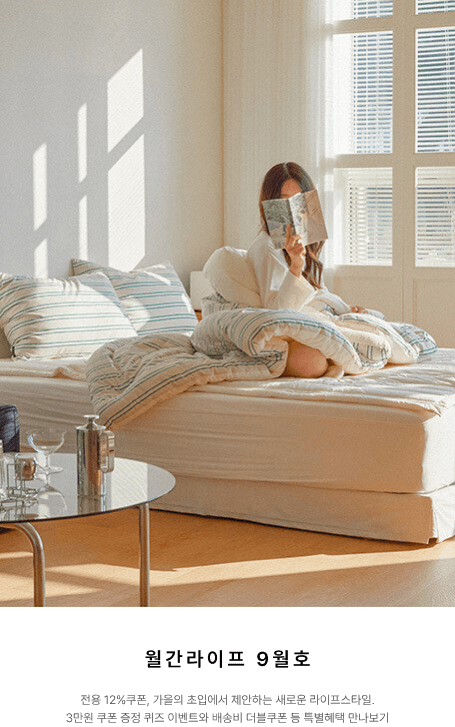
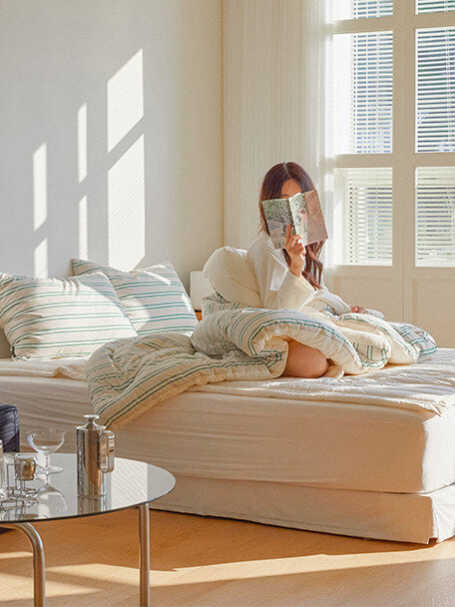
🎨 [Styling] 메인페이지 STORY 이미지 변경
글씨가 포함되었던 이미지를 글씨를 뺸 이미지로 교체했습니다.

diff --git a/src/views/Mainpage.jsx b/src/views/Mainpage.jsx
@@ -1,25 +1,24 @@
-import main1 from "../../public/main/main_banner_1.png";
-import main2 from "../../public/main/main_banner_2.png";
-import main3 from "../../public/main/main_banner_3.png";
-import main4 from "../../public/main/main_banner_4.png";
-import main5 from "../../public/main/main_banner_5.png";
-import main6 from "../../public/main/main_banner_6.png";
-import story1 from "../../public/main/main_story_1.png";
-import story2 from "../../public/main/main_story_2.png";
-import story3 from "../../public/main/main_story_3.png";
-import story4 from "../../public/main/main_story_4.png";
-import event1 from "../../public/main/main_event_banner_1.png";
-import event2 from "../../public/main/main_event_banner_2.png";
-import event3 from "../../public/main/main_event_banner_3.png";
-import event4 from "../../public/main/main_event_banner_4.png";
-import dummy from "../../public/main/dummy.png";
+import main1 from '../../public/main/main_banner_1.png';
+import main2 from '../../public/main/main_banner_2.png';
+import main3 from '../../public/main/main_banner_3.png';
+import main4 from '../../public/main/main_banner_4.png';
+import main5 from '../../public/main/main_banner_5.png';
+import main6 from '../../public/main/main_banner_6.png';
+import story1 from '../../public/main/main_story_1.png';
+import story2 from '../../public/main/main_story_2.png';
+import story3 from '../../public/main/main_story_3.png';
+import story4 from '../../public/main/main_story_4.png';
+import event1 from '../../public/main/main_event_banner_1.png';
+import event2 from '../../public/main/main_event_banner_2.png';
+import event3 from '../../public/main/main_event_banner_3.png';
+import event4 from '../../public/main/main_event_banner_4.png';
+import dummy from '../../public/main/dummy.png';
 
 function Mainpage(params) {
 	return (
-		<div className="w-[1920px] mx-auto">
+		<div className="mx-auto w-[1920px]">
 			<section className="mb-[5rem]">
 				<article className="min-w-min">
-
 					<a href="#">
 						<img src={main1} alt="메인배너1" />
 					</a>
@@ -27,64 +26,228 @@ function Mainpage(params) {
 					{/* <a href="#">
 						<img src={main2} alt="메인배너1" />
 					</a> */}
-
 				</article>
 			</section>
 
 			<section>
-				<h2 className="text-[54px] font-thin text-center mb-8">STYLE STORY</h2>
-				<ul className="flex gap-5 justify-between">
+				<h2 className="mb-8 text-center text-[54px] font-thin">STYLE STORY</h2>
+				<ul className="flex justify-between gap-5">
 					<li>
 						<a href="">
-							<img src={story1} alt="" />
+							<figure>
+								<img src={story1} alt="" />
+								<dl>
+									<dt aria-label="제목"></dt>
+									<dd>월간 라이프 9월호</dd>
+									<dt aria-label="설명"></dt>
+									<dd className="text-center">전용 12%쿠폰, 가을의 초입에서 제안하는 새로운 라이프스타일. 3만원 쿠폰 증정 퀴즈 이벤트와 배송비 더블쿠폰 등 특별혜택 만나보기</dd>
+								</dl>
+							</figure>
 						</a>
 					</li>
-
 					<li>
 						<a href="">
-							<img src={story2} alt="" />
+							<figure>
+								<img src={story2} alt="" />
+								<dl>
+									<dt aria-label="제목"></dt>
+									<dd>월간 라이프 9월호</dd>
+									<dt aria-label="설명"></dt>
+									<dd className="text-center">전용 12%쿠폰, 가을의 초입에서 제안하는 새로운 라이프스타일. 3만원 쿠폰 증정 퀴즈 이벤트와 배송비 더블쿠폰 등 특별혜택 만나보기</dd>
+								</dl>
+							</figure>
 						</a>
 					</li>
-
 					<li>
 						<a href="">
-							<img src={story3} alt="" />
+							<figure>
+								<img src={story3} alt="" />
+								<dl>
+									<dt aria-label="제목"></dt>
+									<dd>월간 라이프 9월호</dd>
+									<dt aria-label="설명"></dt>
+									<dd className="text-center">전용 12%쿠폰, 가을의 초입에서 제안하는 새로운 라이프스타일. 3만원 쿠폰 증정 퀴즈 이벤트와 배송비 더블쿠폰 등 특별혜택 만나보기</dd>
+								</dl>
+							</figure>
 						</a>
 					</li>
-
 					<li>
 						<a href="">
-							<img src={story4} alt="" />
+							<figure>
+								<img src={story4} alt="" />
+								<dl>
+									<dt aria-label="제목"></dt>
+									<dd>월간 라이프 9월호</dd>
+									<dt aria-label="설명"></dt>
+									<dd className="text-center">전용 12%쿠폰, 가을의 초입에서 제안하는 새로운 라이프스타일. 3만원 쿠폰 증정 퀴즈 이벤트와 배송비 더블쿠폰 등 특별혜택 만나보기</dd>
+								</dl>
+							</figure>
 						</a>
 					</li>
-
 				</ul>
 			</section>
 
-			<section className="flex my-12">
+			<section className="my-12 flex">
 				<h2 className="sr-only">EVENT BANNER</h2>
 
-					<a href="#" className="relative">
-						<img src={event2} alt="" />
-						<img src={event4} alt="" className="absolute right-0 top-0"/>
-					</a>
+				<a href="#" className="relative">
+					<img src={event2} alt="" />
+					<img src={event4} alt="" className="absolute right-0 top-0" />
+				</a>
 
-					<a href="#" className="relative"> 
-						<img src={event1} alt="" />
-						<img src={event3} alt="" className="absolute top-0 left-0"/>
-					</a>
-
+				<a href="#" className="relative">
+					<img src={event1} alt="" />
+					<img src={event3} alt="" className="absolute left-0 top-0" />
+				</a>
 			</section>
 
 			<section>
-				<h2 className="text-[54px] font-thin text-center mb-8">MAKE IT YOURS</h2>
+				<h2 className="mb-8 text-center text-[54px] font-thin">MAKE IT YOURS</h2>
 				<ul className="flex justify-between">
-					<li><a href=""><img src={dummy} alt="" /></a></li>
-					<li><a href=""><img src={dummy} alt="" /></a></li>
-					<li><a href=""><img src={dummy} alt="" /></a></li>
-					<li><a href=""><img src={dummy} alt="" /></a></li>
-					<li><a href=""><img src={dummy} alt="" /></a></li>
-					<li><a href=""><img src={dummy} alt="" /></a></li>
+					<li>
+						<button></button>
+						<a href="">
+							<div className="img">
+								<img src={dummy} alt="" />
+							</div>
+							<div className="text">
+								<dl>
+									<dt aria-label="제목"></dt>
+									<dd>제목</dd>
+									<dt aria-label="설명"></dt>
+									<dd>설명</dd>
+									<dt aria-label="이름"></dt>
+									<dd>이름</dd>
+									<dt aria-label="가격"></dt>
+									<dd>가격</dd>
+									<dt aria-label="할인율"></dt>
+									<dd>할인율</dd>
+									<dt aria-label="할인가격"></dt>
+									<dd>할인가격</dd>
+								</dl>
+							</div>
+						</a>
+					</li>
+					<li>
+						<button></button>
+						<a href="">
+							<div className="img">
+								<img src={dummy} alt="" />
+							</div>
+							<div className="text">
+								<dl>
+									<dt aria-label="제목"></dt>
+									<dd>제목</dd>
+									<dt aria-label="설명"></dt>
+									<dd>설명</dd>
+									<dt aria-label="이름"></dt>
+									<dd>이름</dd>
+									<dt aria-label="가격"></dt>
+									<dd>가격</dd>
+									<dt aria-label="할인율"></dt>
+									<dd>할인율</dd>
+									<dt aria-label="할인가격"></dt>
+									<dd>할인가격</dd>
+								</dl>
+							</div>
+						</a>
+					</li>
+					<li>
+						<button></button>
+						<a href="">
+							<div className="img">
+								<img src={dummy} alt="" />
+							</div>
+							<div className="text">
+								<dl>
+									<dt aria-label="제목"></dt>
+									<dd>제목</dd>
+									<dt aria-label="설명"></dt>
+									<dd>설명</dd>
+									<dt aria-label="이름"></dt>
+									<dd>이름</dd>
+									<dt aria-label="가격"></dt>
+									<dd>가격</dd>
+									<dt aria-label="할인율"></dt>
+									<dd>할인율</dd>
+									<dt aria-label="할인가격"></dt>
+									<dd>할인가격</dd>
+								</dl>
+							</div>
+						</a>
+					</li>
+					<li>
+						<button></button>
+						<a href="">
+							<div className="img">
+								<img src={dummy} alt="" />
+							</div>
+							<div className="text">
+								<dl>
+									<dt aria-label="제목"></dt>
+									<dd>제목</dd>
+									<dt aria-label="설명"></dt>
+									<dd>설명</dd>
+									<dt aria-label="이름"></dt>
+									<dd>이름</dd>
+									<dt aria-label="가격"></dt>
+									<dd>가격</dd>
+									<dt aria-label="할인율"></dt>
+									<dd>할인율</dd>
+									<dt aria-label="할인가격"></dt>
+									<dd>할인가격</dd>
+								</dl>
+							</div>
+						</a>
+					</li>
+					<li>
+						<button></button>
+						<a href="">
+							<div className="img">
+								<img src={dummy} alt="" />
+							</div>
+							<div className="text">
+								<dl>
+									<dt aria-label="제목"></dt>
+									<dd>제목</dd>
+									<dt aria-label="설명"></dt>
+									<dd>설명</dd>
+									<dt aria-label="이름"></dt>
+									<dd>이름</dd>
+									<dt aria-label="가격"></dt>
+									<dd>가격</dd>
+									<dt aria-label="할인율"></dt>
+									<dd>할인율</dd>
+									<dt aria-label="할인가격"></dt>
+									<dd>할인가격</dd>
+								</dl>
+							</div>
+						</a>
+					</li>
+					<li>
+						<button></button>
+						<a href="">
+							<div className="img">
+								<img src={dummy} alt="" />
+							</div>
+							<div className="text">
+								<dl>
+									<dt aria-label="제목"></dt>
+									<dd>제목</dd>
+									<dt aria-label="설명"></dt>
+									<dd>설명</dd>
+									<dt aria-label="이름"></dt>
+									<dd>이름</dd>
+									<dt aria-label="가격"></dt>
+									<dd>가격</dd>
+									<dt aria-label="할인율"></dt>
+									<dd>할인율</dd>
+									<dt aria-label="할인가격"></dt>
+									<dd>할인가격</dd>
+								</dl>
+							</div>
+						</a>
+					</li>
 				</ul>
 			</section>
 		</div>

diff --git a/src/App.jsx b/src/App.jsx
@@ -7,11 +7,11 @@ import Mainpage from './views/Mainpage';
 function App() {
 	return (
 		<>
-			{/* <Header />
+			<Header />
 			<Login />
-			<Category />
-			<Detail/> */}
 			<Mainpage />
+			<Category />
+			<Detail/>
 		</>
 	);
 }

diff --git a/src/routes/example.routes.jsx b/src/routes/example.routes.jsx
@@ -13,7 +13,6 @@ const router = createBrowserRouter(
 			<Route index element={<Home />} />
 			<Route path="/login" element={<Login />} />
 		</Route>,
-		// 경로 설정 하는 부분
 	),
 );
 
